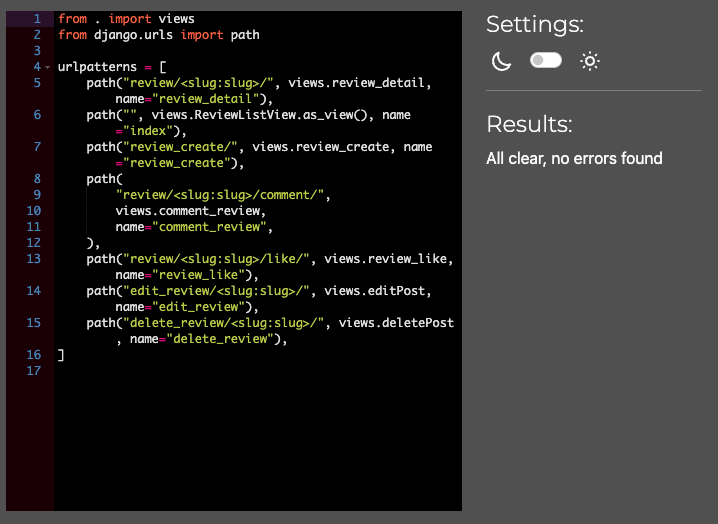
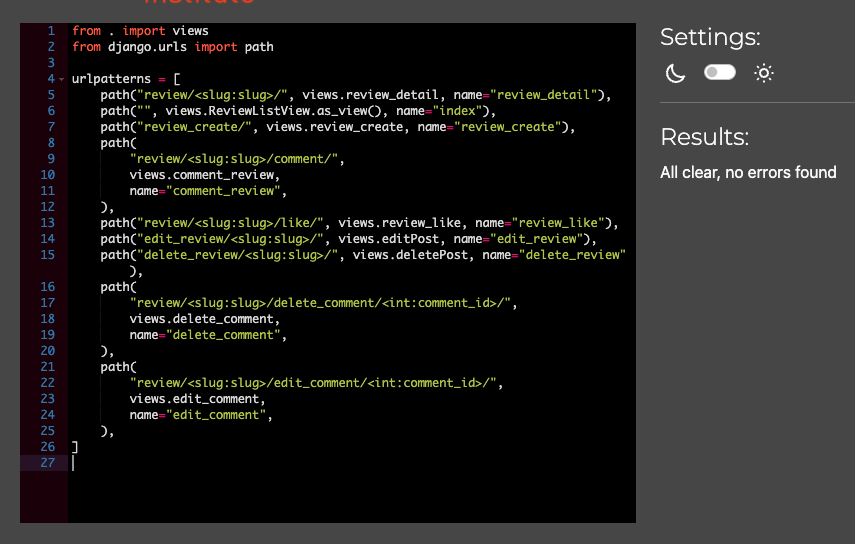
Finnished writing the testing

Changed region(s): [[0.0, 0.0, 0.9805, 0.9771]]

diff --git a/reviews/views.py b/reviews/views.py
@@ -176,18 +176,26 @@ def handler_404_view(request, exception):
 def handler_500_view(request):
     return render(request, "500.html", status=500)
 
+
 @login_required
 def delete_comment(request, slug, comment_id):
     review = get_object_or_404(Review, slug=slug)
     comment = get_object_or_404(review.comments, id=comment_id)
     if comment.author != request.user:
-        messages.error(request, "You are not authorized to delete this comment.")
+        messages.error(
+            request, "You are not authorized to delete this comment."
+        )
         return redirect("review_detail", slug=slug)
     if request.method == "POST":
         comment.delete()
         messages.success(request, "Comment deleted successfully.")
         return redirect("review_detail", slug=slug)
-    return render(request, "reviews/confirm_delete_comment.html", {"comment": comment, 'slug': slug})
+    return render(
+        request,
+        "reviews/confirm_delete_comment.html",
+        {"comment": comment, "slug": slug},
+    )
+
 
 @login_required
 def edit_comment(request, slug, comment_id):
@@ -204,4 +212,8 @@ def edit_comment(request, slug, comment_id):
             return redirect("review_detail", slug=slug)
     else:
         form = CommentForm(instance=comment)
-    return render(request, "reviews/edit_comment.html", {"form": form, 'comment': comment, 'slug': slug})
+    return render(
+        request,
+        "reviews/edit_comment.html",
+        {"form": form, "comment": comment, "slug": slug},
+    )

diff --git a/reviews/urls.py b/reviews/urls.py
@@ -13,6 +13,14 @@ urlpatterns = [
     path("review/<slug:slug>/like/", views.review_like, name="review_like"),
     path("edit_review/<slug:slug>/", views.editPost, name="edit_review"),
     path("delete_review/<slug:slug>/", views.deletePost, name="delete_review"),
-    path('review/<slug:slug>/delete_comment/<int:comment_id>/', views.delete_comment, name='delete_comment'),
-    path('review/<slug:slug>/edit_comment/<int:comment_id>/', views.edit_comment, name='edit_comment'),
+    path(
+        "review/<slug:slug>/delete_comment/<int:comment_id>/",
+        views.delete_comment,
+        name="delete_comment",
+    ),
+    path(
+        "review/<slug:slug>/edit_comment/<int:comment_id>/",
+        views.edit_comment,
+        name="edit_comment",
+    ),
 ]

diff --git a/TESTING.md b/TESTING.md
@@ -14,13 +14,11 @@ I have used the recommended [HTML W3C Validator](https://validator.w3.org) to va
 | reviews | [index.html](https://github.com/MrsmLisa/review-the-comic/blob/main/reviews/templates/reviews/index.html) | [Index-test](https://validator.w3.org/nu/?doc=https%3A%2F%2Freview-the-comic-ac6c1ec7e7bf.herokuapp.com%2F#textarea) | ![screenshot](documentation/validation/reviews/index.png) |  |
 | reviews | [review_detail.html](https://github.com/MrsmLisa/review-the-comic/blob/main/reviews/templates/reviews/review_detail.html) | [review_detail test](https://validator.w3.org/nu/?doc=https%3A%2F%2Freview-the-comic-ac6c1ec7e7bf.herokuapp.com%2Freview%2Fheadlopper%2F) | ![screenshot](documentation/validation/reviews/review_detail.png) |  |
 | reviews | [review_form.html](https://github.com/MrsmLisa/review-the-comic/blob/main/reviews/templates/reviews/review_form.html) | [review_form test](https://validator.w3.org/nu/?doc=https%3A%2F%2Freview-the-comic-ac6c1ec7e7bf.herokuapp.com%2Faccounts%2Flogin%2F%3Fnext%3D%2Freview_create%2F) | ![screenshot](documentation/validation//reviews/review_form.png) |  |
-| reviews | [review_form.html](https://github.com/MrsmLisa/review-the-comic/blob/main/reviews/templates/reviews/confirm_delete_coment.html) | [review_form test](https://validator.w3.org/nu/?doc=https%3A%2F%2Freview-the-comic-ac6c1ec7e7bf.herokuapp.com%2Freview%2Fheadlopper%2Fdelete_comment%2F10%2F) | ![screenshot](documentation/validation//reviews/delete-comment.png) |  |
-| reviews | [review_form.html](https://github.com/MrsmLisa/review-the-comic/blob/main/reviews/templates/reviews/edit_comment.html) | [review_form test](https://validator.w3.org/nu/?doc=https%3A%2F%2Freview-the-comic-ac6c1ec7e7bf.herokuapp.com%2Freview%2Fheadlopper%2Fedit_comment%2F10%2F) | ![screenshot](documentation/validation//reviews/edit-comment.png) |  |
+| reviews | [confirm_delete_comment.html](https://github.com/MrsmLisa/review-the-comic/blob/main/reviews/templates/reviews/confirm_delete_coment.html) | [confirm_delete_comment test](https://validator.w3.org/nu/?doc=https%3A%2F%2Freview-the-comic-ac6c1ec7e7bf.herokuapp.com%2Freview%2Fheadlopper%2Fdelete_comment%2F10%2F) | ![screenshot](documentation/validation//reviews/delete-comment.png) |  |
+| reviews | [edit_comment.html](https://github.com/MrsmLisa/review-the-comic/blob/main/reviews/templates/reviews/edit_comment.html) | [edit_comment test](https://validator.w3.org/nu/?doc=https%3A%2F%2Freview-the-comic-ac6c1ec7e7bf.herokuapp.com%2Freview%2Fheadlopper%2Fedit_comment%2F10%2F) | ![screenshot](documentation/validation//reviews/edit-comment.png) |  |
 | templates | [base.html] |  |  | As the base.html is on every page it is note tested on its own. |
 | templates | [login.html](https://github.com/MrsmLisa/review-the-comic/blob/main/templates/account/login.html) | [login test](https://validator.w3.org/nu/?doc=https%3A%2F%2Freview-the-comic-ac6c1ec7e7bf.herokuapp.com%2Faccounts%2Flogin%2F) | ![screenshot](documentation/validation/templates/login.png) |  |
 | templates | [logout.html](https://github.com/MrsmLisa/review-the-comic/blob/main/templates/account/logout.html) |  [logout test](https://validator.w3.org/nu/?doc=https%3A%2F%2Freview-the-comic-ac6c1ec7e7bf.herokuapp.com%2F) | ![screenshot](documentation/validation/templates/logout.png) |  |
-| templates | [signup.html](https://github.com/MrsmLisa/review-the-comic/blob/main/templates/account/signup.html) | [signup-test](https://validator.w3.org/nu/?doc=https%3A%2F%2Freview-the-comic-ac6c1ec7e7bf.herokuapp.com%2Faccounts%2Fsignup%2F) | ![screenshot](documentation/validation/templates/signup.png) |  |
-| templates | [signup.html](https://github.com/MrsmLisa/review-the-comic/blob/main/templates/account/signup.html) | [signup-test](https://validator.w3.org/nu/?doc=https%3A%2F%2Freview-the-comic-ac6c1ec7e7bf.herokuapp.com%2Faccounts%2Fsignup%2F) | ![screenshot](documentation/validation/templates/signup.png) |  |
 | templates | [signup.html](https://github.com/MrsmLisa/review-the-comic/blob/main/templates/account/signup.html) | [signup-test](https://validator.w3.org/nu/?doc=https%3A%2F%2Freview-the-comic-ac6c1ec7e7bf.herokuapp.com%2Faccounts%2Fsignup%2F) | ![screenshot](documentation/validation/templates/signup.png) |  |
 
 
@@ -72,7 +70,7 @@ I've tested my deployed project on multiple browsers to check for compatibility 
 | Login | ![screenshot](documentation/browsers/chrome-login.png) | ![screenshot](documentation/browsers/firefox-login.png) | ![screenshot](documentation/browsers/safari-login.png) | Works as expected |
 | Home | ![screenshot](documentation/browsers/chrome-home.png) | ![screenshot](documentation/browsers/firefox-home.png) | ![screenshot](documentation/browsers/safari-home.png) | Works as expected |
 | Add Blog | ![screenshot](documentation/browsers/chrome-add-blog.png) | ![screenshot](documentation/browsers/firefox-add-blog.png) | ![screenshot](documentation/browsers/safari-add-blog.png) | Works as expected |
-| Edit Blog | ![screenshot](documentation/browsers/chrome-edit-blog.png) | ![screenshot](documentation/browsers/firefox-edit-blog.png) | ![screenshot](documentation/browsers/safari-edit-blog.png) | Works as expected |
+| Edit Blog | ![screenshot](documentation/browsers/chrome-edit-blog.png) | ![screenshot](documentation/browsers/firefox-edit-blog.png) | ![screenshot](documentation/browsers/safari-edit-post.png) | Works as expected |
 | Blog Post | ![screenshot](documentation/browsers/chrome-blog-post.png) | ![screenshot](documentation/browsers/firefox-blog-post.png) | ![screenshot](documentation/browsers/safari-blog-post.png) | Works as expected |
 | 404 | ![screenshot](documentation/browsers/chrome-404.png) | ![screenshot](documentation/browsers/firefox-404.png) | ![screenshot](documentation/browsers/safari-404.png) | Works as expected |
 
@@ -104,10 +102,10 @@ Defensive programming was manually tested with the below user acceptance testing
 | | Feature is expected to allow users to register for an account. | Registered a new user with unique credentials. | User account was created successfully. | ![screenshot](documentation/defensive/register.png) ![image2](documentation/defensive/register2.png) |
 | | Feature is expected to allow users to log out securely. | Logged out and tried accessing a restricted page. | Access was denied after logout, as expected. | ![screenshot](documentation/defensive/logout.png) ![screenshot](documentation/defensive/logout2.png) |
 | User Comments | Feature is expected to allow registered users to leave comments on blog posts. | Logged in and added comments to a blog post. | Comments were successfully added. | ![screenshot](documentation/defensive/add-comment.png) |
-| | Feature is expected to allow users to edit their own comments. | Edited personal comments. | Comments were updated as expected. | ![screenshot](documentation/defensive/edit-user-comments.png) |
+| | Feature is expected to allow users to edit their own comments. | Edited personal comments. | Comments were updated as expected. | ![screenshot](documentation/defensive/edit-delete-comments.png) |
 | | Feature is expected to allow users to delete their own comments. | Deleted personal comments. | Comments were removed as expected. | ![screenshot](documentation/defensive/delete-user-comments.png) |
-| Guest Features | Feature is expected to allow guest users to read blog posts without registering. | Opened blog posts as a guest user. | Blog posts were fully accessible without logging in. | ![screenshot](documentation/defensive/view-posts-guest.png) |
-| | Feature is expected to display the names of other commenters on posts. | Checked the names of commenters on posts as a guest user. | Commenter names were displayed as expected. | ![screenshot](documentation/defensive/commenter-names.png) |
+| Guest Features | Feature is expected to allow guest users to read blog posts without registering. | Opened blog posts as a guest user. | Blog posts were fully accessible without logging in. | ![screenshot](documentation/defensive/view-post-guest.png) |
+| | Feature is expected to display the names of other commenters on posts. | Checked the names of commenters on posts as a guest user. | Commenter names were displayed as expected. | ![screenshot](documentation/defensive/comenter-names.png) |
 | | Feature is expected to block standard users from brute-forcing admin pages. | Attempted to navigate to admin-only pages by manipulating the URL (e.g., `/admin`). | Access was blocked, and a message was displayed showing denied access. | ![screenshot](documentation/defensive/brute-force.png) |
 | 404 Error Page | Feature is expected to display a 404 error page for non-existent pages. | Navigated to an invalid URL (e.g., `/test`). | A custom 404 error page was displayed as expected. | ![screenshot](documentation/defensive/404.png) |
 
@@ -134,3 +132,34 @@ Defensive programming was manually tested with the below user acceptance testing
 
 
 ## Bugs
+
+### Fixed Bugs
+Unfortunatly I forgot to take screenshots for most of my 
+
+| Bug | Fix |
+|---|---|
+| Could not connect to Heroku. | Had to add the "127.0.0.1" and had misspelt Heroku.|
+| Recived an Gunicorn error saying 'Haltserver, worker failed to boot" | Forgotten to put DATABASE_URL in Heroku Config Vars. |
+| Was not allowecd to migrate. | There was no 0001 in the migrations folder. Had to reinstall Django. |
+| `os.environ.setdefault` split across two lines in `manage.py` causing `No Django settings specified` error on Heroku | Moved both arguments onto the same line |
+| `instance=review` in `review_create` view causing `UnboundLocalError` | Removed `instance=review` as it only belongs in the edit view |
+| Cloudinary `Invalid Signature` error | Found hidden character in API secret using `repr()` in Django shell |
+| Navbar content overlapping page on mobile | Added `padding-top` to body to account for fixed navbar height |
+| Page shifting horizontally on PC due to scrollbar | Added `scrollbar-gutter: stable` to HTML element |
+| `excerpt` and `date` merged as one field name in `forms.py` | Added missing comma between the two field names |
+| `{% load static %}` missing from child templates causing `TemplateSyntaxError` | Added `{% load static %}` to each template that uses static files |
+| `approved` field referenced in view but not in Comment model | Removed filter from view to match the model |
+
+### Unfixed Bugs
+
+- No unfixed bugs remaining.
+
+### Known Issues
+
+| Issue | Screenshot |
+| --- | --- |
+| The project is designed to be responsive from `375px` and upwards, in line with the material taught on the course LMS. Minor layout inconsistencies may occur on extra-wide (e.g. 4k/8k monitors), or smart-display devices (e.g. Nest Hub, Smart Watches, Gameboy Color, etc.), as these resolutions are outside the project’s scope, as taught by Code Institute. |  |
+| The Lighthouse score is low in some places because the images are not uploaded from https. There is also a problem with Bootstrap CSS that is not used, if it was a real site I would have used the PurgeCSS.  | ![screenshot](documentation/lighthouse/desktop-blog-post.png) |
+
+> [!IMPORTANT]  
+> There are no remaining bugs that I am aware of, though, even after thorough testing, I cannot rule out the possibility.